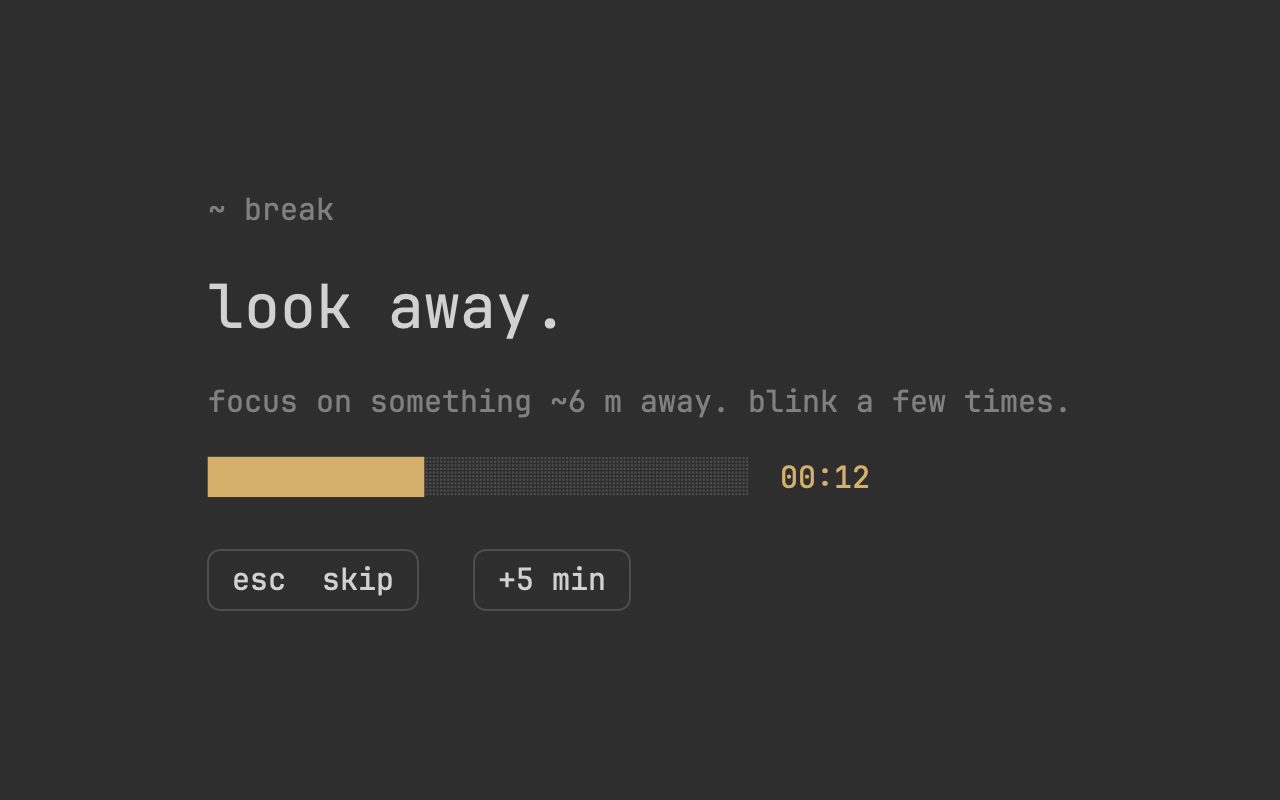
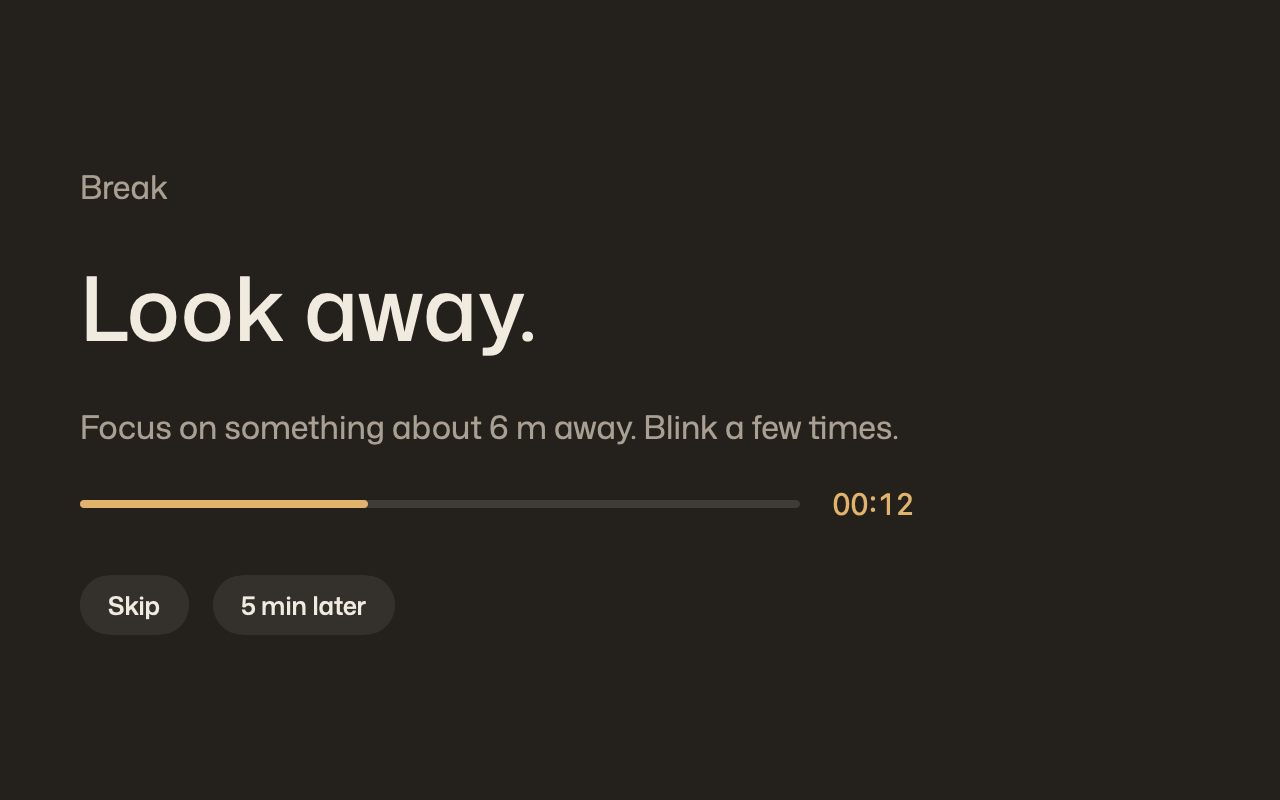
Website: screenshots of the new app design

diff --git a/index.html b/index.html
@@ -131,11 +131,11 @@
   .bar b { width: 11px; height: 11px; border-radius: 50%; background: #ff5f57; } .bar b:nth-child(2) { background: #febc2e; } .bar b:nth-child(3) { background: #28c840; }
   .win svg { display: block; width: 100%; aspect-ratio: 16 / 6.5; }
   .stage .brk { position: absolute; inset: 0; z-index: 6; display: flex; flex-direction: column; justify-content: center; padding: 0 16%;
-    background: rgba(46, 46, 46, .97); color: #d1d1d1; font: 16px/1.7 var(--mono); opacity: 0; }
-  .stage .brk small { color: #808080; } .stage .brk b { font-size: clamp(22px, 3.4vw, 40px); font-weight: 400; margin: 6px 0 4px; }
-  .stage .brk p { color: #808080; font-size: 14px; margin-bottom: 18px; }
-  .stage .brk .bar2 { display: flex; align-items: center; gap: 16px; } .stage .brk .bar2 u { flex: 0 0 min(50%, 360px); height: 10px; background: #4d4d4d; border-radius: 2px; overflow: hidden; }
-  .stage .brk .bar2 u i { position: static; display: block; height: 100%; width: 0; background: #d4b06b; } .stage .brk .bar2 span { color: #d4b06b; }
+    background: rgba(36, 33, 29, .97); color: var(--fg); font: 16px/1.6 var(--sans); opacity: 0; }
+  .stage .brk small { color: var(--muted); font-size: 14px; } .stage .brk b { font: 500 clamp(26px, 4vw, 48px)/1.1 var(--display); letter-spacing: -.04em; margin: 8px 0 10px; }
+  .stage .brk p { color: var(--muted); font-size: 15px; margin-bottom: 20px; }
+  .stage .brk .bar2 { display: flex; align-items: center; gap: 16px; } .stage .brk .bar2 u { flex: 0 0 min(50%, 360px); height: 4px; background: rgba(241, 234, 223, .13); border-radius: 2px; overflow: hidden; }
+  .stage .brk .bar2 u i { position: static; display: block; height: 100%; width: 0; background: var(--amber); } .stage .brk .bar2 span { color: var(--amber); font: 14px var(--mono); }
   .note { padding: 16px 20px 20px; } .note h5 { margin: 0 0 6px; font: 650 18px/1.2 -apple-system, BlinkMacSystemFont, "Segoe UI", sans-serif; } .note p { color: #66666c; font-size: 14px; }
 
   section.block { padding: 140px 0 0; }
@@ -156,8 +156,8 @@
   .mini i { position: absolute; inset: 0; pointer-events: none; }
   .mini .t { mix-blend-mode: multiply; background: #fff; z-index: 1; } .mini .m { background: rgb(140, 133, 117); opacity: 0; z-index: 2; } .mini .d { background: #000; opacity: 0; z-index: 3; }
   .mini .brk { position: absolute; inset: 0; z-index: 4; display: flex; flex-direction: column; justify-content: center; padding: 0 12%;
-    background: rgba(46, 46, 46, .96); color: #d1d1d1; font: 13px/1.6 var(--mono); opacity: 0; }
-  .mini .brk b { font-size: 20px; font-weight: 500; } .mini .brk span { color: var(--amber); }
+    background: rgba(36, 33, 29, .96); color: var(--fg); font: 13px/1.5 var(--sans); opacity: 0; }
+  .mini .brk small { color: var(--muted); } .mini .brk b { font: 500 22px/1.2 var(--display); letter-spacing: -.03em; } .mini .brk span { color: var(--amber); font: 12px var(--mono); }
   .feat { list-style: none; margin: 18px 0 0; padding: 0; }
   .feat li { display: flex; justify-content: space-between; padding: 11px 2px; border-top: 1px solid var(--line); color: var(--muted); font-size: 15px; transition: color .3s; }
   .feat li::after { content: "–"; opacity: .5; }
@@ -280,7 +280,7 @@
           <div class="note"><h5>Notes from the lake</h5><p>Left early. The light over the water was worth it.</p></div>
         </div>
         <i class="t" id="st"></i><i class="m" id="sm"></i><i class="d" id="sd"></i>
-        <div class="brk" id="brk"><small>~ break</small><b>look away.</b><p>focus on something ~6 m away. blink a few times.</p>
+        <div class="brk" id="brk"><small>Break</small><b>Look away.</b><p>Focus on something about 6 m away. Blink a few times.</p>
           <div class="bar2"><u><i id="bfill"></i></u><span id="bclock">00:20</span></div></div>
       </div>
       <div class="track" aria-hidden="true"><i id="dot"></i><span style="left:0;transform:none">Day</span><span style="left:50%">Evening</span><span style="right:0;left:auto;transform:none">Bedtime</span></div>
@@ -293,7 +293,7 @@
         <h2>Set it once.</h2>
         <p class="sub">Tell Mellow where you live and when you wake up. It follows the sun and your sleep from there. Rather choose yourself? Pick Daylight, Evening or Bedtime.</p>
       </div>
-      <img class="app" decoding="async" src="shot-auto.png" width="779" height="1000" alt="Mellow settings: your city, wake-up time and a plan for the day.">
+      <img class="app" decoding="async" src="shot-auto.png" width="1080" height="1430" alt="Mellow settings: your city, wake-up time and a plan for the day.">
     </div>
   </section>
 
@@ -309,7 +309,7 @@
       <figure class="pane me" id="pm">
         <h3>Mellow</h3>
         <div class="mini"><svg viewBox="0 0 800 450" preserveAspectRatio="xMidYMid slice" aria-hidden="true"><use href="#lake"/></svg><i class="t"></i><i class="m"></i><i class="d"></i>
-          <div class="brk"><small>~ break</small><b>look away.</b><span>00:20</span></div></div>
+          <div class="brk"><small>Break</small><b>Look away.</b><span>00:20</span></div></div>
         <ul class="feat"><li data-k="warm">Warmer colors</li><li data-k="dim">Dimmer screen</li><li data-k="soft">Softer colors</li><li data-k="brk">Break reminders</li></ul>
       </figure>
     </div>
